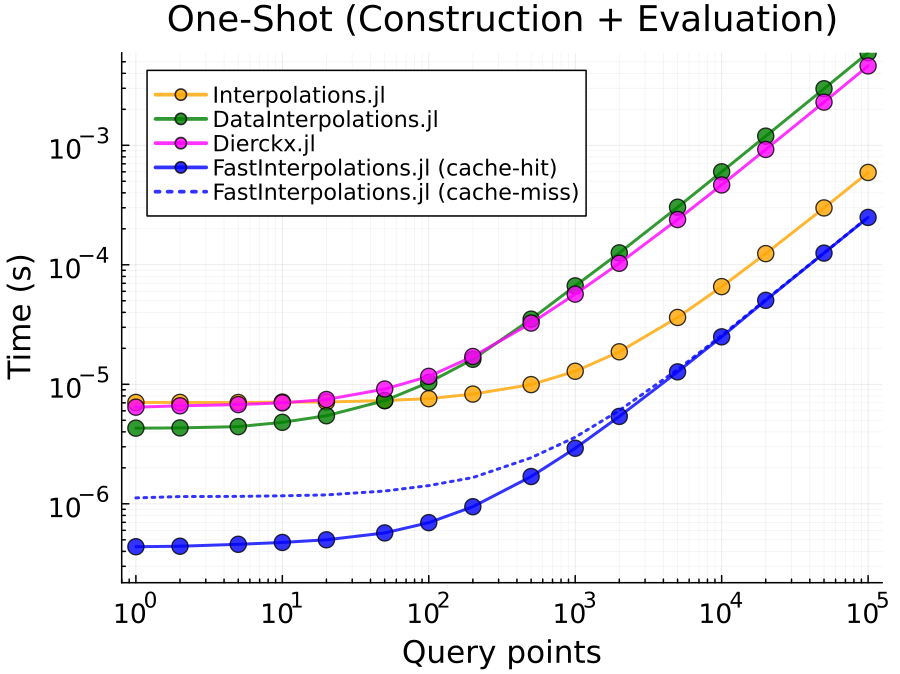
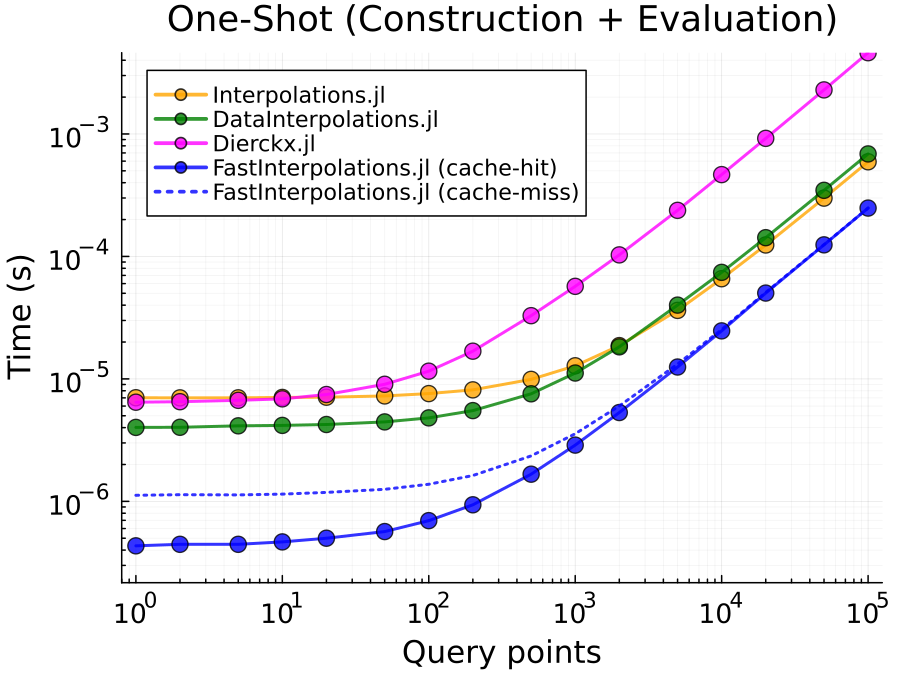
chore: bump version to 0.4.15 and update benchmark results

diff --git a/README.md b/README.md
@@ -155,13 +155,13 @@ Comparison on a non-uniform 2D rectilinear grid for $f(x, y) = \sin(2\pi x) \cos
 Benchmark comparison against [Interpolations.jl](https://github.com/JuliaMath/Interpolations.jl), [DataInterpolations.jl](https://github.com/SciML/DataInterpolations.jl), and [Dierckx.jl](https://github.com/JuliaMath/Dierckx.jl) for **cubic spline interpolation**.
 <!-- BENCHMARK_VERSIONS_START -->
 > **Env:** Local · macOS 15.7.3 · Apple M1 Pro · Julia 1.12.6<br>
-> **Pkg:** FastInterpolations (v0.4.14) · Interpolations (v0.16.3) · DataInterpolations (v8.10.0) · Dierckx (v0.5.4)
+> **Pkg:** FastInterpolations (v0.4.15) · Interpolations (v0.16.3) · DataInterpolations (v9.0.0) · Dierckx (v0.5.4)
 <!-- BENCHMARK_VERSIONS_END -->
 
 ![One-Shot](docs/images/benchmark_oneshot_detail.png)
 
 <!-- BENCHMARK_SPEEDUP_START -->
-**Speedup:** (2.4 ~ 16.1)× vs `Interpolations.jl` · (9.7 ~ 24.0)× vs `DataInterpolations.jl` · (14.7 ~ 19.5)× vs `Dierckx.jl`
+**Speedup:** (2.4 ~ 16.2)× vs `Interpolations.jl` · (2.8 ~ 9.3)× vs `DataInterpolations.jl` · (14.6 ~ 19.8)× vs `Dierckx.jl`
 <!-- BENCHMARK_SPEEDUP_END -->
 
 One-shot (construction + evaluation) time per call with fixed grid size $n=100$. `FastInterpolations.jl` is significantly faster even on the first call (cache-miss), and becomes even faster on subsequent calls (cache-hit).
